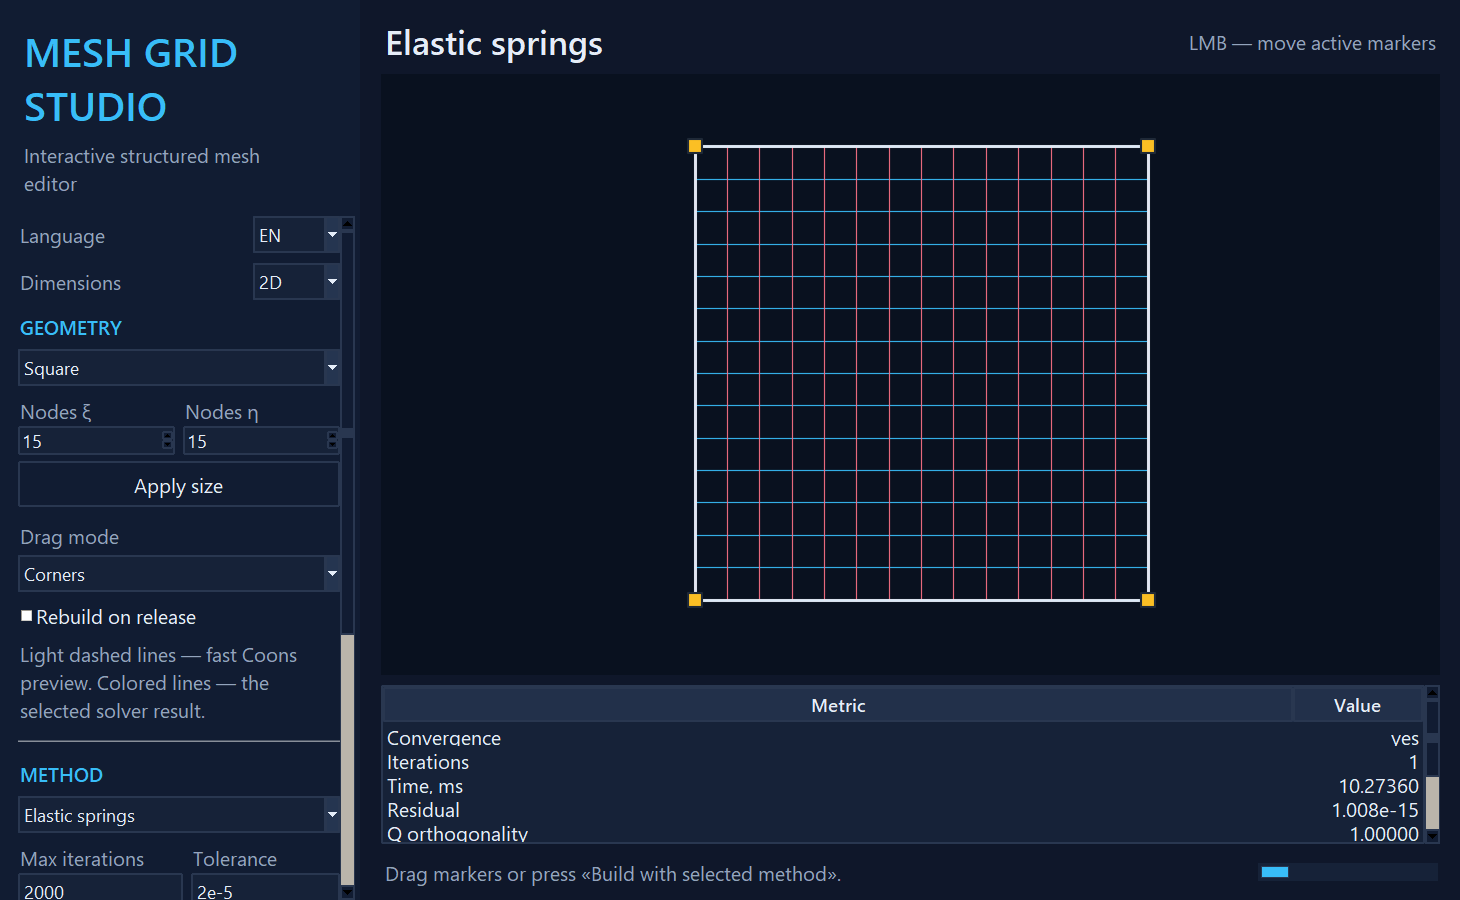
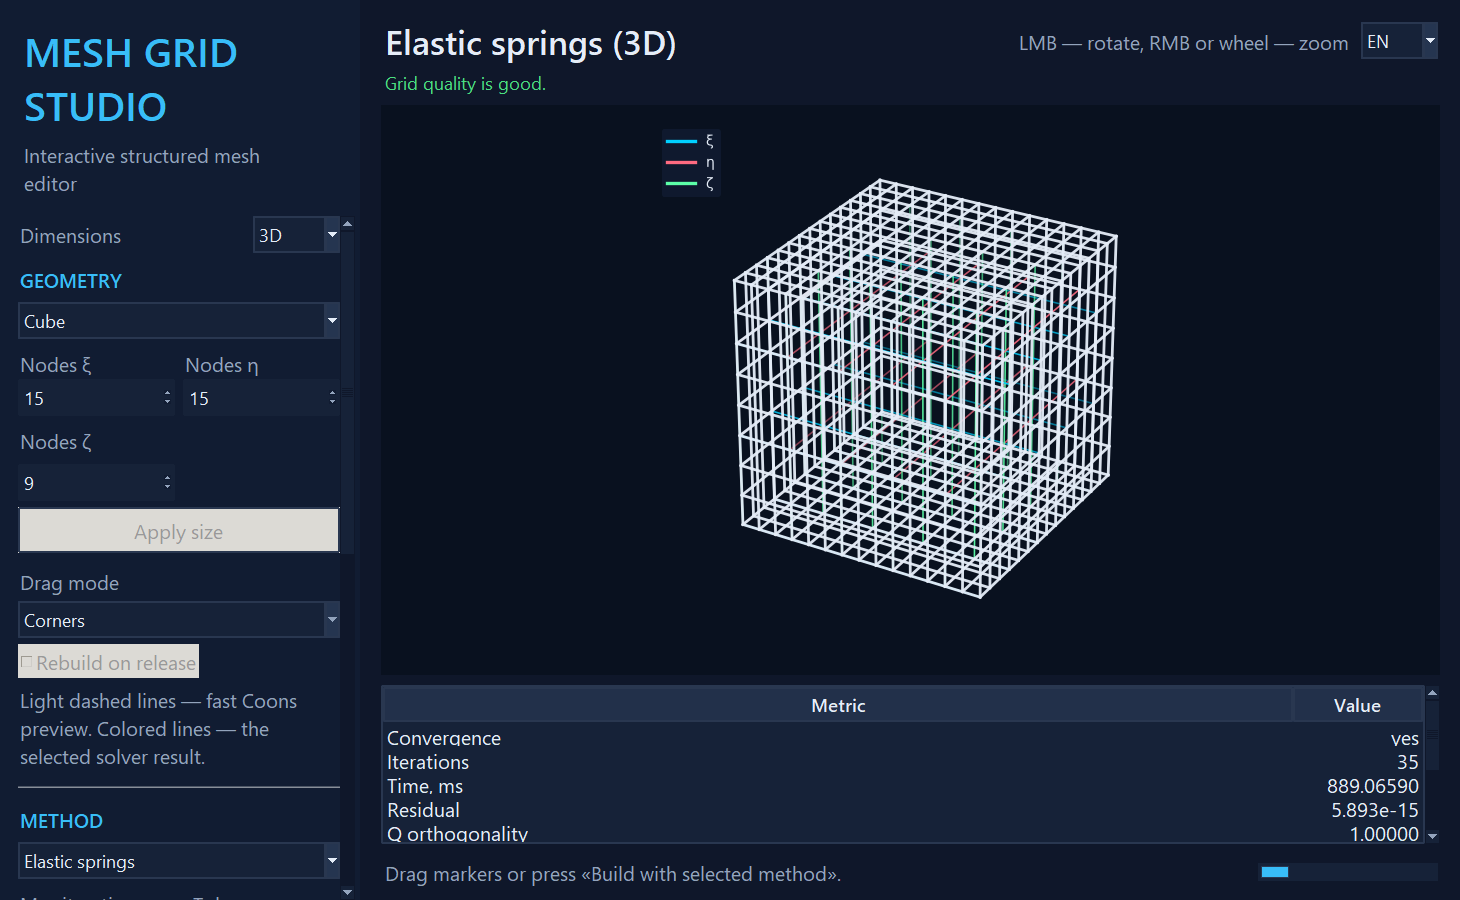
Polish UI: smoother sidebar scrolling, top-bar language switch, styled controls
Fractional wheel accumulation fixes scroll truncation on smooth mice, a pixel-based scroll increment and a visible styled thumb improve the sidebar slider; the grid wheel scrolls the metrics table; language switch moved to the window's top bar, shortening the sidebar; spinbox/scrollbar styling and Enter-to-build on numeric fields.

diff --git a/mesh_gui.py b/mesh_gui.py
@@ -606,6 +606,7 @@ class MeshDesignerApp:
         self._rot_drag: tuple[float, float, float, float] | None = None
         self._zoom_drag: float | None = None
         self._rotate_after_id: str | None = None
+        self._sidebar_wheel = 0.0
 
         self._configure_style()
         self._build_layout()
@@ -620,6 +621,15 @@ class MeshDesignerApp:
             )
             self._apply_preset3d_size_limit()
         self._register_tooltips()
+        for widget in (
+            self.n_xi_spin,
+            self.n_eta_spin,
+            self.n_zeta_spin,
+            self.max_iterations_entry,
+            self.tolerance_entry,
+            self.mu_entry,
+        ):
+            widget.bind("<Return>", lambda _e: self.start_calculation(), add="+")
         self._update_method_controls(reset_tolerance=False)
         self._draw()
 
@@ -1177,6 +1187,36 @@ class MeshDesignerApp:
             background=COLORS["accent"],
             bordercolor=COLORS["panel_alt"],
         )
+        style.configure(
+            "Vertical.TScrollbar",
+            background=COLORS["panel_alt"],
+            troughcolor=COLORS["window"],
+            bordercolor=COLORS["window"],
+            arrowcolor=COLORS["muted"],
+            lightcolor=COLORS["panel_alt"],
+            darkcolor=COLORS["panel_alt"],
+            width=15,
+        )
+        style.map(
+            "Vertical.TScrollbar",
+            background=[("active", "#2a4a6b")],
+            arrowcolor=[("active", COLORS["text"])],
+        )
+        style.configure(
+            "TSpinbox",
+            fieldbackground=COLORS["panel_alt"],
+            foreground=COLORS["text"],
+            arrowcolor=COLORS["muted"],
+            bordercolor=COLORS["panel_alt"],
+            lightcolor=COLORS["panel_alt"],
+            darkcolor=COLORS["panel_alt"],
+            padding=4,
+        )
+        style.map(
+            "TSpinbox",
+            fieldbackground=[("readonly", COLORS["panel_alt"]), ("disabled", COLORS["panel_alt"])],
+            arrowcolor=[("active", COLORS["accent"]), ("disabled", COLORS["muted"])],
+        )
 
     def _build_layout(self) -> None:
         self.root.grid_columnconfigure(1, weight=1)
@@ -1207,6 +1247,7 @@ class MeshDesignerApp:
             background=COLORS["panel"],
             highlightthickness=0,
             borderwidth=0,
+            yscrollincrement=24,
         )
         control_scrollbar = ttk.Scrollbar(
             sidebar, orient="vertical", command=control_canvas.yview
@@ -1231,8 +1272,15 @@ class MeshDesignerApp:
             top = control_canvas.winfo_rooty()
             right = left + control_canvas.winfo_width()
             bottom = top + control_canvas.winfo_height()
-            if left <= event.x_root <= right and top <= event.y_root <= bottom:
-                control_canvas.yview_scroll(int(-event.delta / 120), "units")
+            if not (left <= event.x_root <= right and top <= event.y_root <= bottom):
+                return
+            # Fractional accumulation keeps smooth-scroll mice (small deltas)
+            # from being truncated to zero ticks.
+            self._sidebar_wheel += event.delta / 120.0
+            units = int(self._sidebar_wheel)
+            if units:
+                self._sidebar_wheel -= units
+                control_canvas.yview_scroll(-units, "units")
 
         controls.bind("<Configure>", update_scroll_region)
         control_canvas.bind("<Configure>", fit_control_width)
@@ -1240,22 +1288,6 @@ class MeshDesignerApp:
         controls.grid_columnconfigure(0, weight=1)
 
         row = 0
-        language_frame = ttk.Frame(controls)
-        language_frame.grid(row=row, column=0, sticky="ew", pady=(0, 10))
-        language_frame.grid_columnconfigure(0, weight=1)
-        self._label(language_frame, "lang_label", style="Muted.TLabel").grid(
-            row=0, column=0, sticky="w"
-        )
-        self.lang_combo = ttk.Combobox(
-            language_frame,
-            textvariable=self.lang_var,
-            values=("EN", "RU"),
-            state="readonly",
-            width=6,
-        )
-        self.lang_combo.grid(row=0, column=1, sticky="e")
-        self.lang_combo.bind("<<ComboboxSelected>>", self._on_language_selected)
-        row += 1
         dimension_frame = ttk.Frame(controls)
         dimension_frame.grid(row=row, column=0, sticky="ew", pady=(0, 10))
         dimension_frame.grid_columnconfigure(0, weight=1)
@@ -1509,6 +1541,15 @@ class MeshDesignerApp:
             background=COLORS["window"],
         )
         self.view_hint_label.grid(row=0, column=1, sticky="e")
+        self.lang_combo = ttk.Combobox(
+            top,
+            textvariable=self.lang_var,
+            values=("EN", "RU"),
+            state="readonly",
+            width=5,
+        )
+        self.lang_combo.grid(row=0, column=2, sticky="e", padx=(10, 0))
+        self.lang_combo.bind("<<ComboboxSelected>>", self._on_language_selected)
         self.advisor_label = ttk.Label(
             top,
             text="",
@@ -1556,6 +1597,13 @@ class MeshDesignerApp:
         )
         self.metrics_tree.configure(yscrollcommand=metrics_scrollbar.set)
         metrics_scrollbar.grid(row=0, column=1, sticky="ns")
+        self.metrics_tree.bind(
+            "<MouseWheel>",
+            lambda event: self.metrics_tree.yview_scroll(
+                int(-event.delta / 120), "units"
+            ),
+            add="+",
+        )
 
         status_frame = ttk.Frame(main, style="Main.TFrame")
         status_frame.grid(row=3, column=0, sticky="ew", padx=22, pady=(0, 12))
